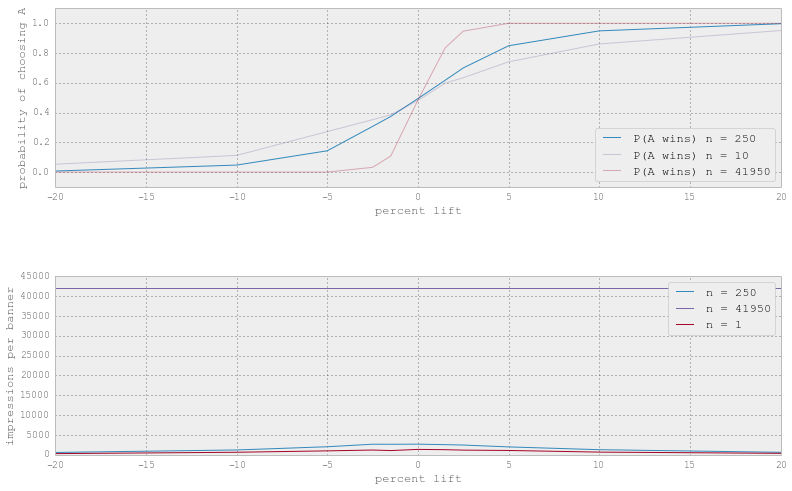
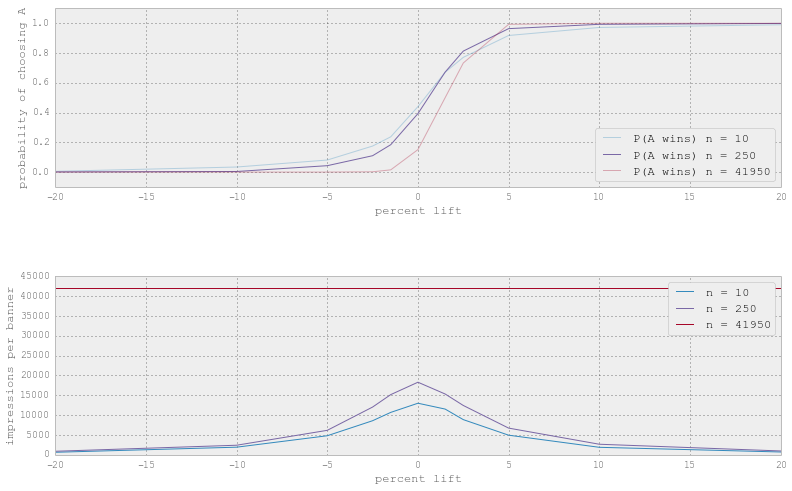
better finishing plot

diff --git a/_posts/2014-11-27-post.md b/_posts/2014-11-27-post.md
@@ -707,9 +707,9 @@ When the lift is negative it also has a higher chance of declaring A the winner.
 
 ##Bayesian Tests are not Immune to Peeking
 
-There have been some confusing claims about the immunity of Bayesian AB test to repeated testing. We can use the repeated testing framework introduced above to show otherwise. The plot below show the probability of A winning and the expected run time as a function of lift for different testing intervals. We see the same pattern as in repeated hypothesis testing: you can trade off accuracy with sample size by changing the interval at which you test.
+There have been some confusing claims about the immunity of Bayesian AB test to repeated testing. We can use the repeated testing framework introduced above to show otherwise. The plot below shows the probability of A winning and the expected run time as a function of lift for different testing intervals. To generate the plots, I used the same parameters as above, but lowered the cost to 0.001. We see the same pattern as in repeated hypothesis testing: you can trade off accuracy with sample size by changing the interval at which you test. It is by no means true that you do not reduce the chance of picking the better banner as you repeat the Bayesian test until hitting your stopping criterion.
 
-![_config.yml]({{ site.baseurl }}/images/2014-11-27/blog_experiments_2_1.png)
+![_config.yml]({{ site.baseurl }}/images/2014-11-27/blog_experiments-Copy0_2_1.png)
 
 
 <!---
